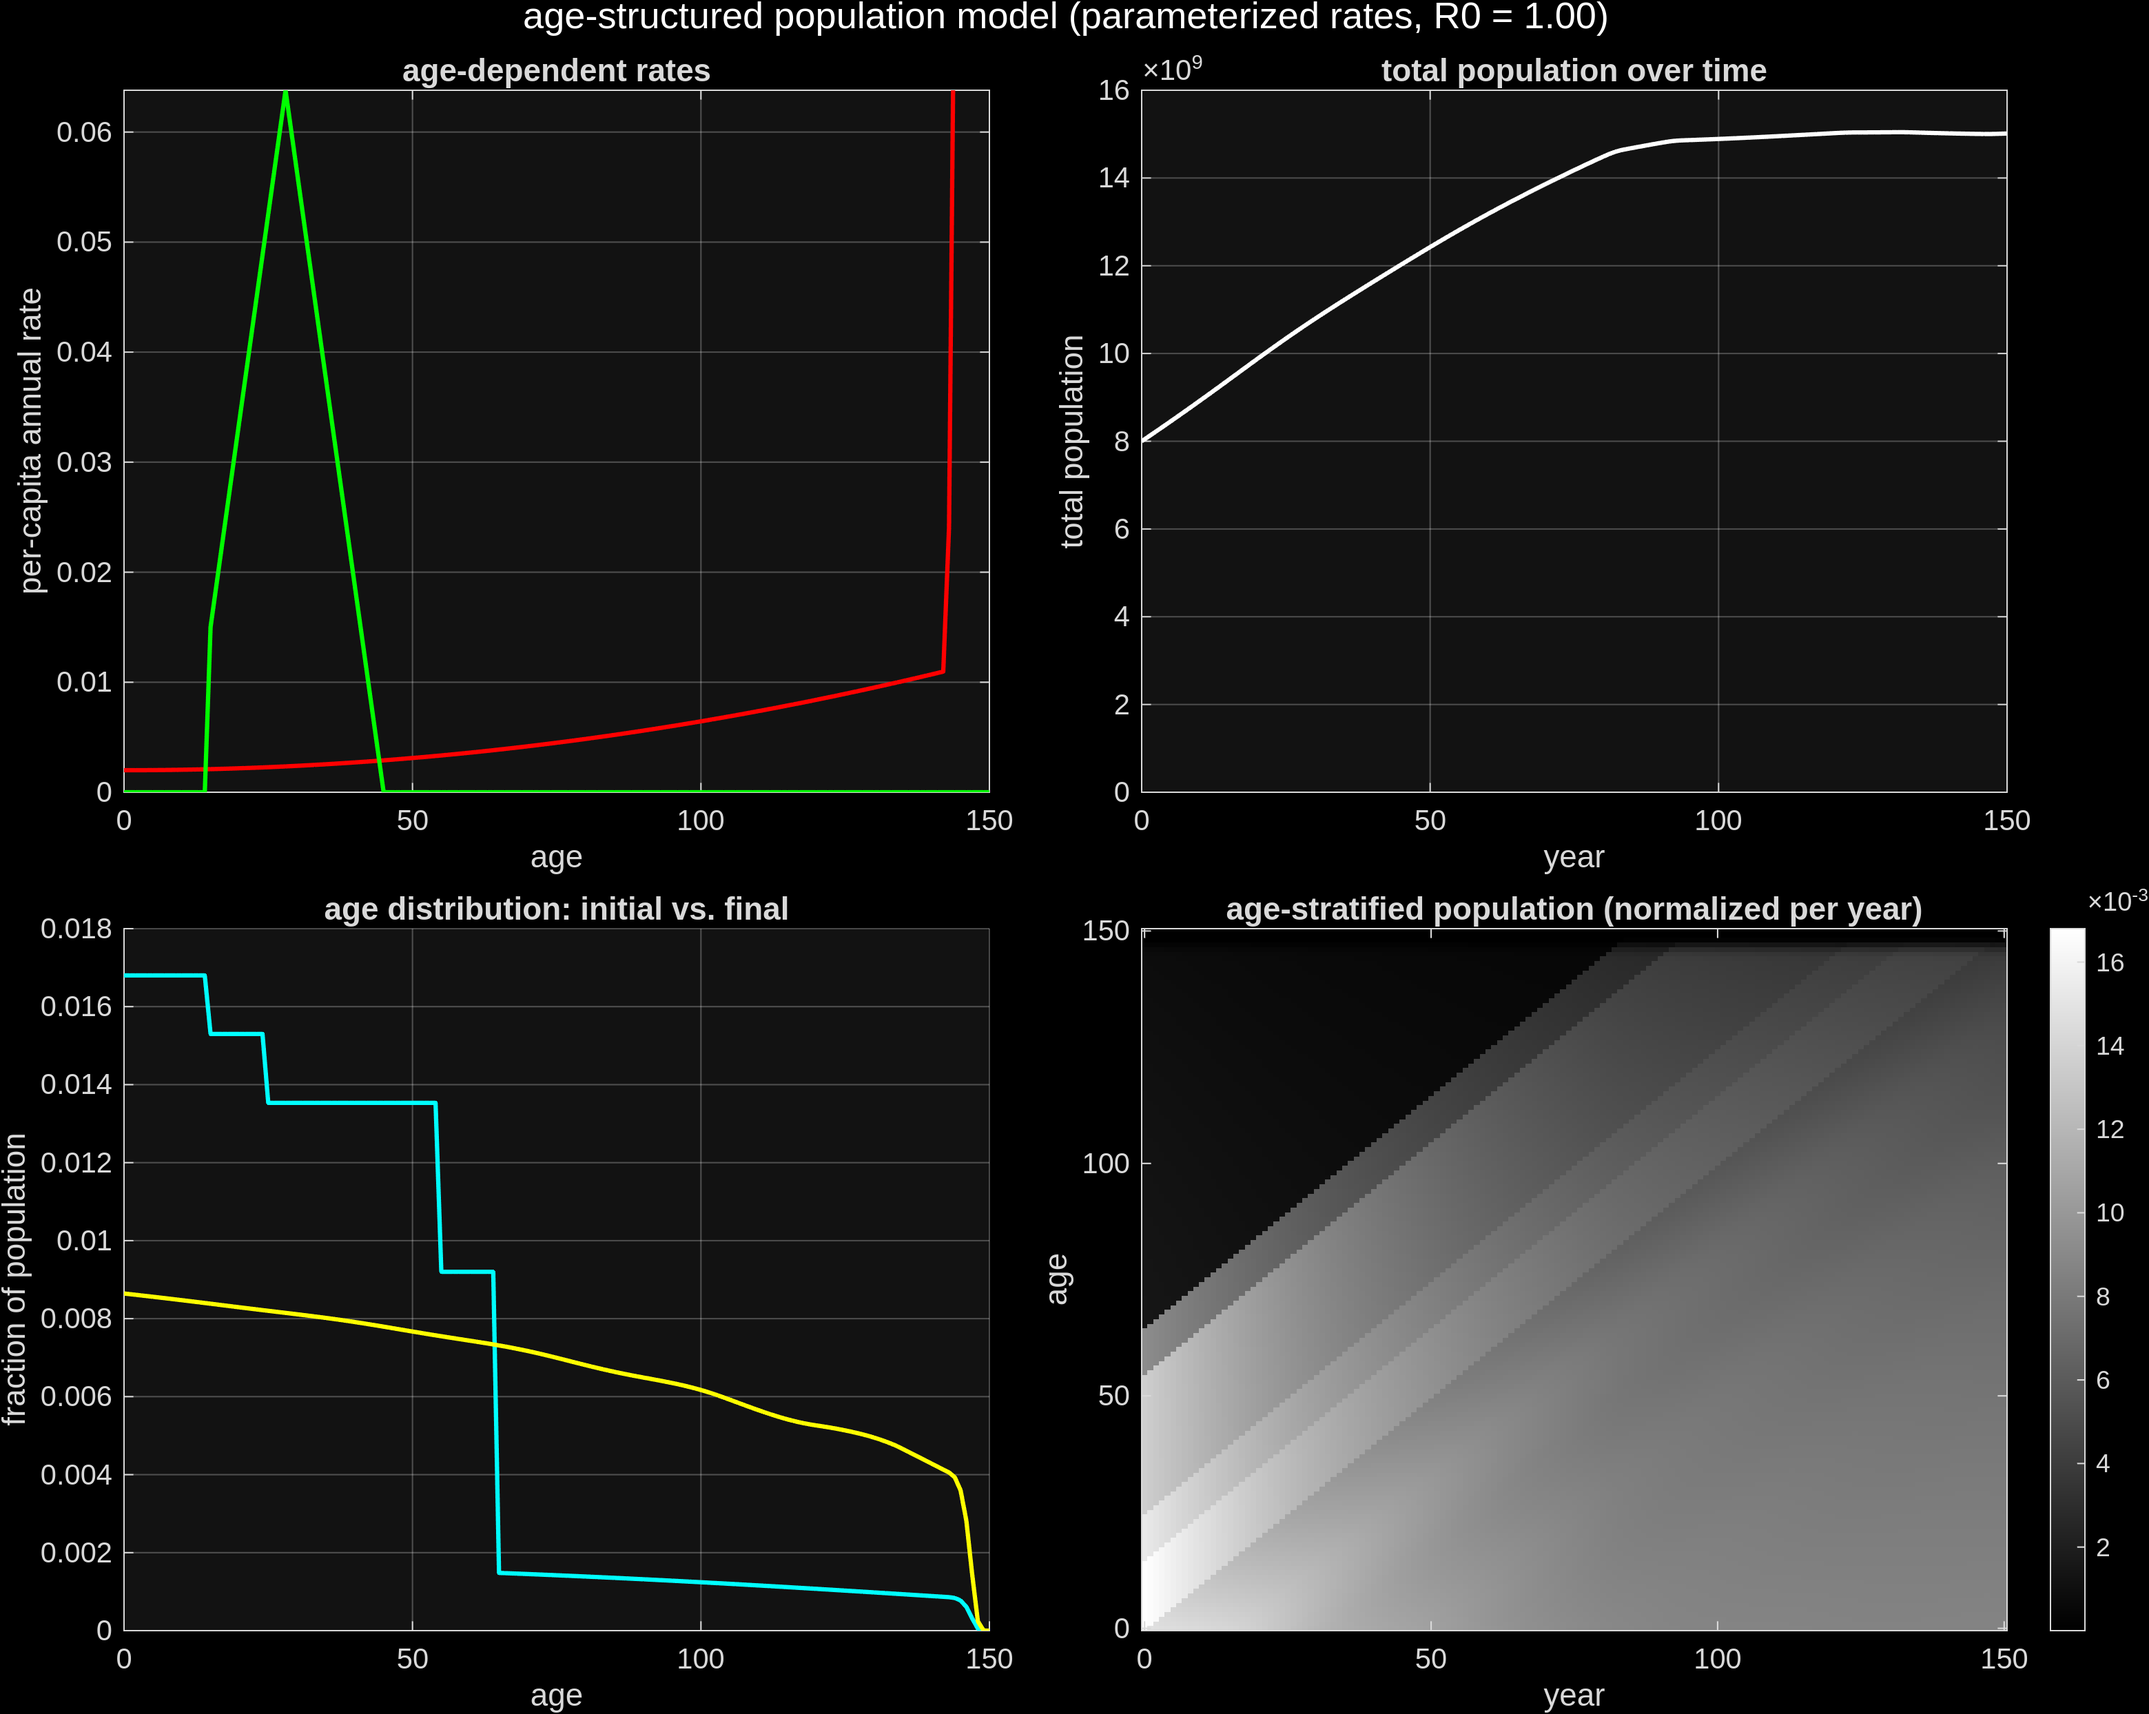
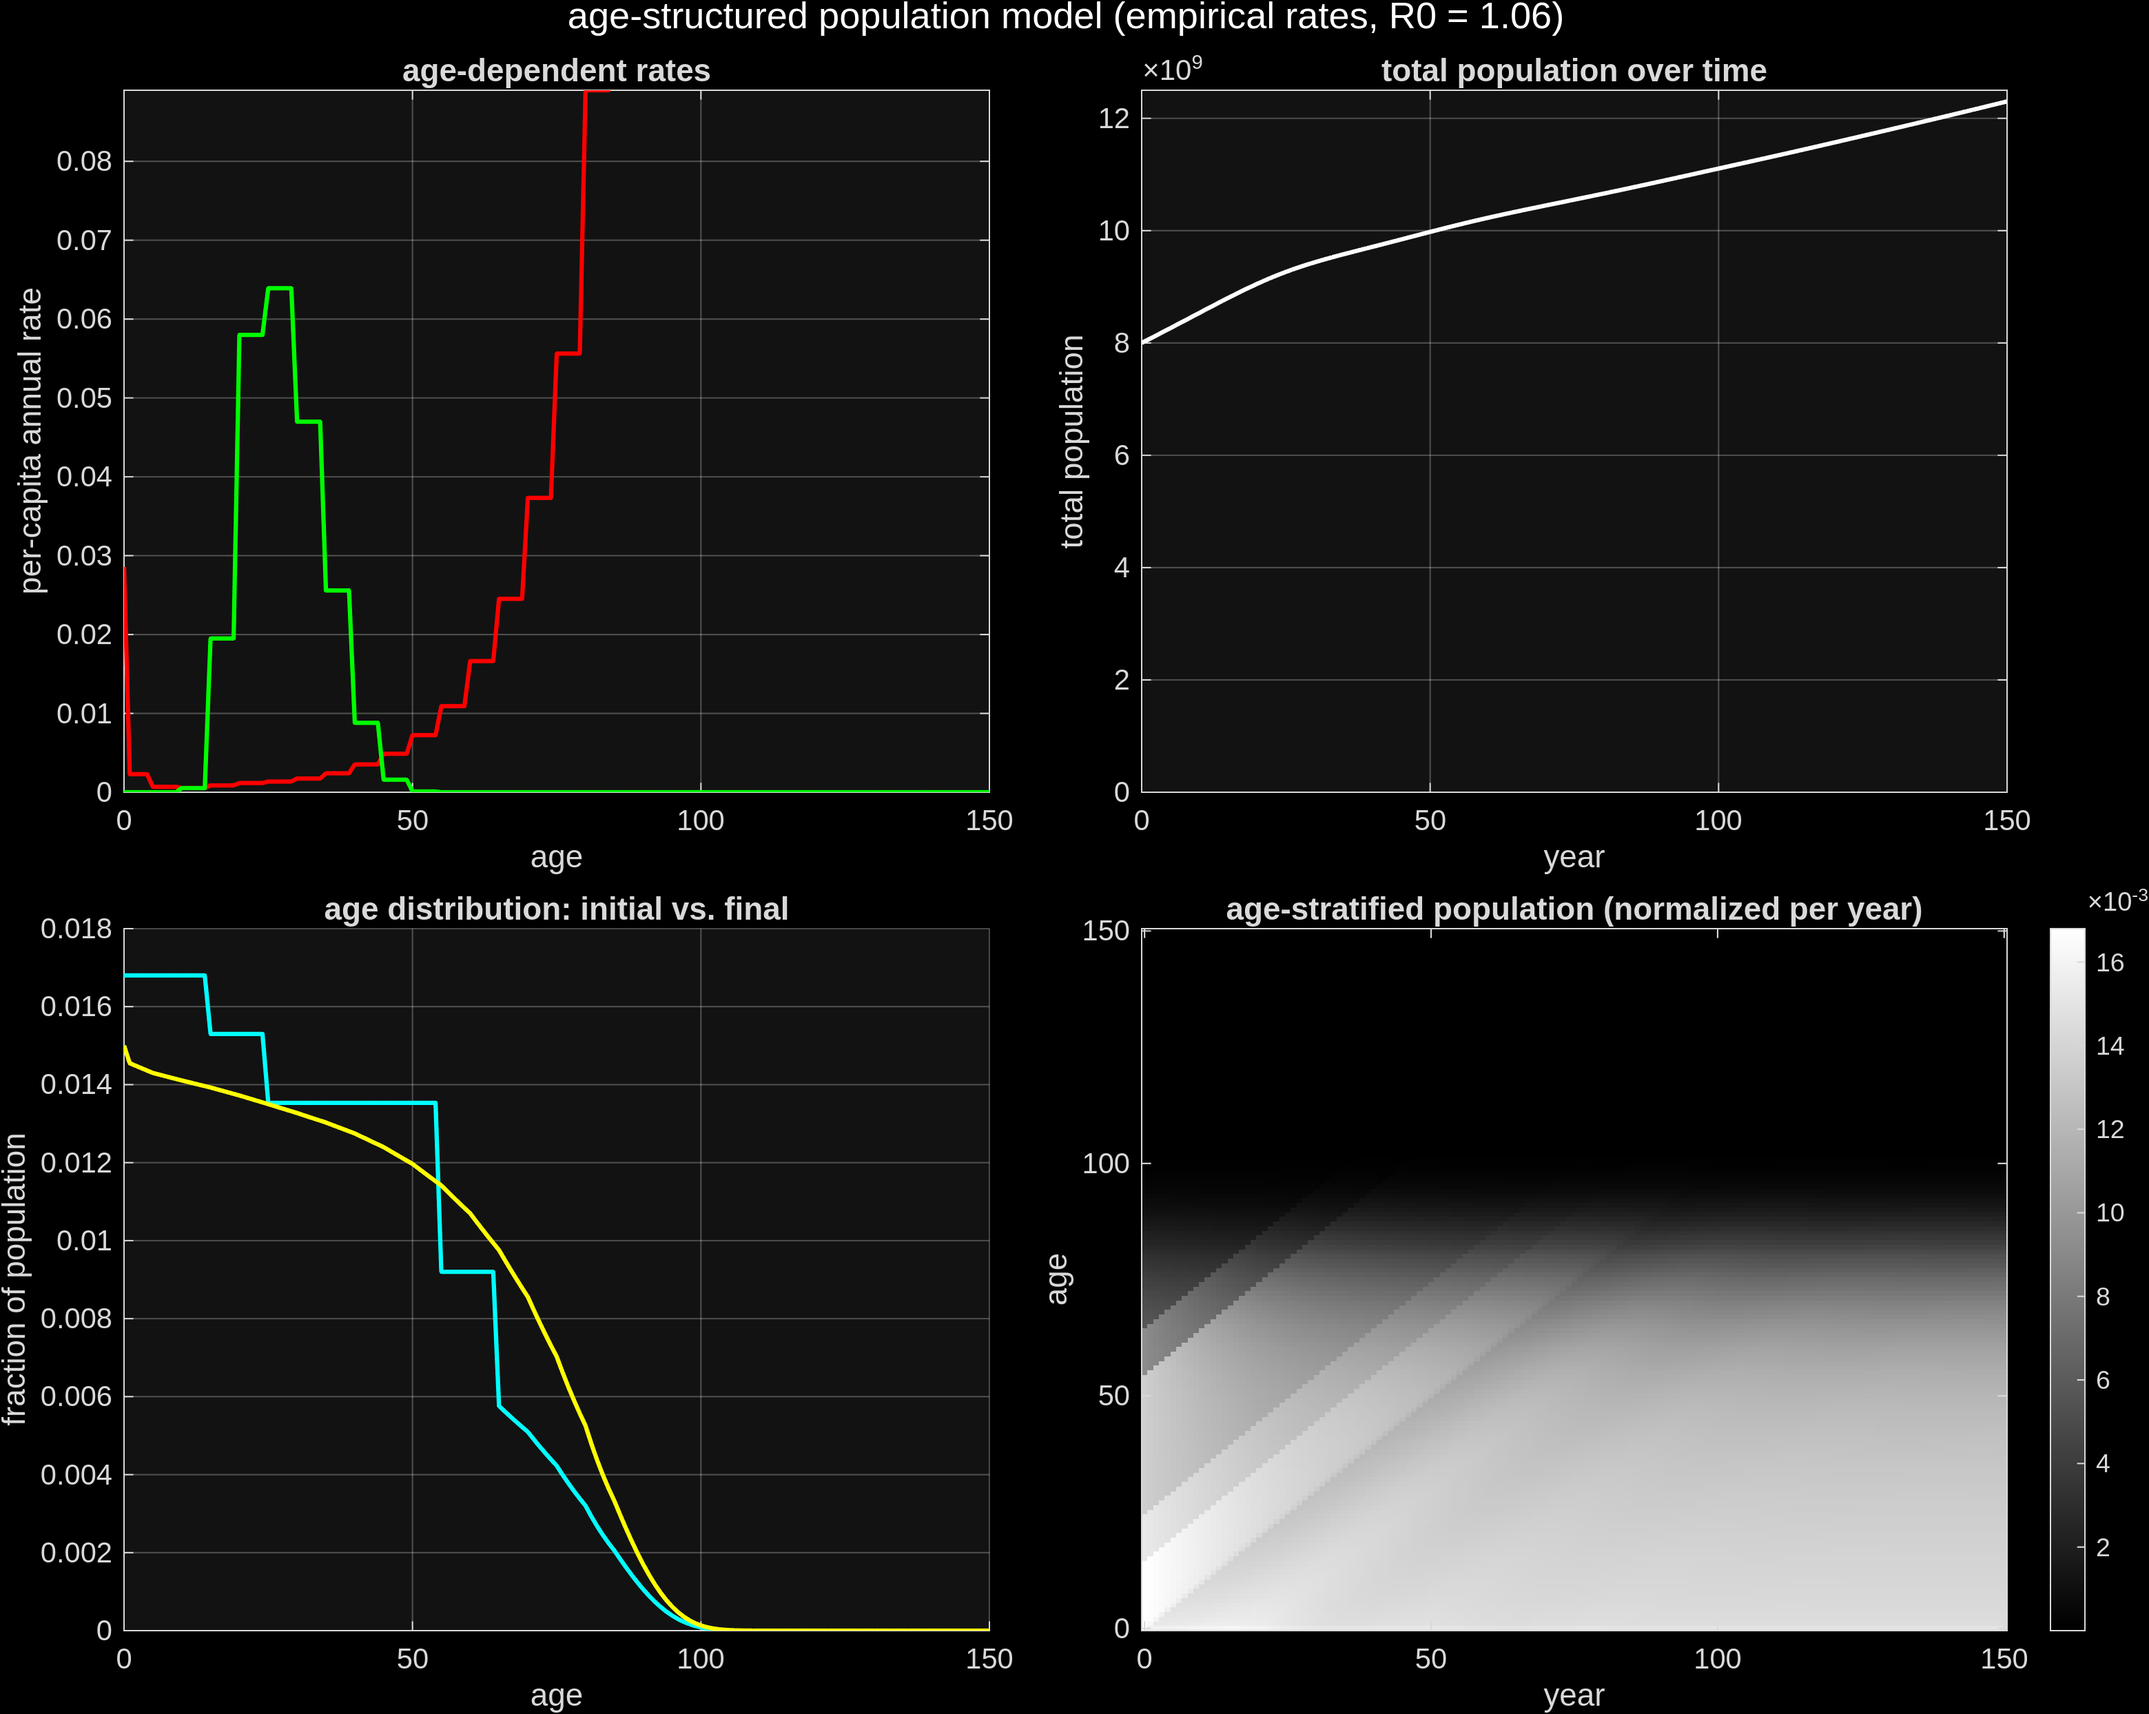
Make rateSource default to 'empirical'
The model now runs with the world's actual current age-specific
fertility and mortality by default, rather than the hand-tuned
parameterized shapes -- so by default the population's total no
longer settles to a steady value (R0 from real data is ~1.06, not
an enforced 1); the age *shape* still converges to the model's own
stable form regardless.

Updated README (intro, panel descriptions, Rate source list order)
and populationModel.md (the §1/§3 mode note, the Eq.10 validation
paragraph -- which specifically needs rateSource='parameterized' to
hold and no longer follows from "running with defaults", and §9's
intro) so no claim depends on which mode happens to be default.
Parameterized mode (targetR0=1) is unchanged and still how to get an
exact steady state.

diff --git a/doIt.m b/doIt.m
@@ -12,11 +12,11 @@ workDir = fileparts(mfilename('fullpath'));
 % Age-structured (Leslie-matrix) population model. Each yearly age class
 % ages up one bin per year, subject to age-specific mortality; births
 % enter age 0 in proportion to age-specific fertility. Edit and hit Run.
-rateSource = 'parameterized';   % 'parameterized' (hand-tuned Gompertz+cliff mortality, triangular
-                                 % fertility, rescaled to targetR0) | 'empirical' (current real-world
-                                 % age-specific rates -- World, UN World Population Prospects via Our
-                                 % World in Data; NOT rescaled to targetR0, so its own R0 emerges from
-                                 % the real data as-is). See README "Rate source" for details/sources.
+rateSource = 'empirical';   % 'empirical' (current real-world age-specific rates -- World, UN
+                             % World Population Prospects via Our World in Data; NOT rescaled to
+                             % targetR0, so its own R0 emerges from the real data as-is) |
+                             % 'parameterized' (hand-tuned Gompertz+cliff mortality, triangular
+                             % fertility, rescaled to targetR0). See README "Rate source" for details/sources.
 ageMax     = 150;      % y, oldest age class (plus-group: survivors accumulate here)
 steepAgeFrac        = 0.95;   % fraction of ageMax past which mortality accelerates sharply (senescence cliff)
 steepMortalityScale = 0.02;   % extra-hazard scale added past steepAgeFrac*ageMax

diff --git a/README.md b/README.md
@@ -2,19 +2,25 @@
 
 A minimal age-structured (Leslie-matrix / cohort-component) population model in MATLAB.
 Age-dependent birth (fertility) and death (mortality) rates drive a population of yearly age
-cohorts forward in time. By default, fertility is auto-calibrated to a target net reproduction
-rate, which is what makes the population settle into a genuine **steady state** rather than growing
-or shrinking without bound — see [`populationModel.md`](populationModel.md) for why. The rates
-themselves are swappable too: hand-tuned parameterized curves (default) or current real-world
-age-specific rates — see [Rate source](#rate-source).
+cohorts forward in time. By default (`rateSource='empirical'`) those rates are the world's actual
+current age-specific fertility and mortality, so the model shows what they currently imply: the age
+distribution's *shape* settles into the model's own stable form, but the *total* keeps growing,
+since today's real rates aren't exactly at replacement. Switch to `rateSource='parameterized'` (see
+[Rate source](#rate-source)) to instead calibrate fertility to a target net reproduction rate,
+which is what makes the population settle into a genuine **steady state** — the property this
+project is named for — rather than growing or shrinking without bound; see
+[`populationModel.md`](populationModel.md) for why.
 
 ![age-structured population model](figures/populationModel.png)
 
-- **top-left** — the age-dependent rates driving the model: mortality (red, rising with age, with
-  an optional sharp senescence cliff late in life) and fertility (green, a triangular pulse over
-  the fertile age window).
-- **top-right** — total population over time, settling from its (deliberately non-stable) initial
-  condition toward a steady long-run value.
+- **top-left** — the age-dependent rates driving the model: mortality (red) and fertility (green)
+  by age. With the default empirical rates these are the real, somewhat noisy age-band curves
+  (a U-shaped mortality curve, low through adulthood then rising sharply past ~50; a fertility
+  curve peaking in the late 20s); in parameterized mode these are smooth hand-tuned Gompertz and
+  triangular shapes instead.
+- **top-right** — total population over time. Its *shape* settles quickly; whether the *total*
+  itself levels off depends on [rate source](#rate-source) — it doesn't with the default empirical
+  rates (mild real-world growth, R0 ≈ 1.06), but does in parameterized mode with `targetR0=1`.
 - **bottom-left** — the initial (current real-world) vs. final (model's own stable) age
   distribution, directly comparing the starting and converged shapes.
 - **bottom-right** — the full age-stratified population, normalized within each year, showing the
@@ -30,15 +36,12 @@ the top; edit and re-run. The script ends by exporting the figure above to
 
 ## Rate source
 
-`rateSource` (a `CONTROL PANEL` parameter, default `'parameterized'`) picks between two
+`rateSource` (a `CONTROL PANEL` parameter, default `'empirical'`) picks between two
 independent implementations of the mortality/fertility curves, selected by a `switch` in
 `doIt.m` — everything downstream (survival, R0, the cohort simulation) uses whichever
 `mortality(age)`/`fertility(age)` that switch produces, unchanged:
 
-- **`'parameterized'`** (default) — the hand-tuned Gompertz-plus-senescence-cliff mortality and
-  triangular fertility described above and in [`populationModel.md`](populationModel.md), with
-  fertility rescaled to hit `targetR0` exactly.
-- **`'empirical'`** — the current real-world age-specific rates for the World: fertility from the
+- **`'empirical'`** (default) — the current real-world age-specific rates for the World: fertility from the
   2023 age-specific fertility rate by 5-year age band, and mortality from the 2021 life table's
   probability of dying within each age band (both from
   [Our World in Data](https://ourworldindata.org/), sourced from UN World Population Prospects).
@@ -49,6 +52,9 @@ independent implementations of the mortality/fertility curves, selected by a `sw
   mode, fertility here is used *as-is* — not rescaled to `targetR0` — so whatever net reproduction
   rate the real data implies is what the model runs with (currently R0 ≈ 1.06, i.e. mild long-run
   growth, consistent with the world's fertility currently sitting slightly above replacement).
+- **`'parameterized'`** — the hand-tuned Gompertz-plus-senescence-cliff mortality and triangular
+  fertility described in [`populationModel.md`](populationModel.md), with fertility rescaled to
+  hit `targetR0` exactly.
 
 ## Net reproduction rate (R0)
 

diff --git a/populationModel.md b/populationModel.md
@@ -27,8 +27,8 @@ genuine steady state — the property the project is named for.
 
 ## 1. Age-dependent mortality
 
-*(This section, and §3 below, describe the default `rateSource='parameterized'` mode. §9 gives the
-`'empirical'` alternative.)*
+*(This section, and §3 below, describe the `rateSource='parameterized'` mode. §9 gives the
+`'empirical'` alternative -- the project's own default.)*
 
 Baseline hazard rises with age (Gompertz-like), plus a sharp senescence cliff past a configurable
 fraction $f_s$ (`steepAgeFrac`) of the maximum age:
@@ -144,16 +144,19 @@ $$
 \lim_{t\to\infty} \frac{N(a,t)}{P(t)} = \frac{\ell(a)}{\sum_{a'} \ell(a')} \tag{10}
 $$
 
-This is a checkable prediction, not just an assertion: running `doIt.m` with defaults, the
-simulated final-year age distribution `N(:,end)/sum(N(:,end))` matches `survivorship/sum(survivorship)`
-to within $2\times10^{-4}$ after `nYears`$=150$ years, starting from the real-world (not the
-model's own stable) age distribution in the parameter table below — confirming Eq. (10) numerically.
+This is a checkable prediction, not just an assertion: running `doIt.m` with
+`rateSource='parameterized'` ($\lambda=1$ exactly, since `targetR0=1`), the simulated final-year age
+distribution `N(:,end)/sum(N(:,end))` matches `survivorship/sum(survivorship)` to within
+$2\times10^{-4}$ after `nYears`$=150$ years, starting from the real-world (not the model's own
+stable) age distribution in the parameter table below — confirming Eq. (10) numerically. (Eq. (10)
+is specifically the $\lambda=1$ case; with `rateSource='empirical'` -- the project's own current
+default, §9 -- $\lambda\neq1$, so the general $\ell(a)\lambda^{-a}$ form above it applies instead.)
 
 ---
 
 ## 9. Empirical rate alternative
 
-`rateSource='empirical'` replaces Eqs. (1) and (3) with the current real-world age-specific rates
+`rateSource='empirical'` (the project's own default) replaces Eqs. (1) and (3) with the current real-world age-specific rates
 for the World, rather than the hand-tuned shapes: fertility from the 2023 age-specific fertility
 rate by 5-year age band, mortality from the 2021 life table's probability of dying within each age
 band (both [Our World in Data](https://ourworldindata.org/), sourced from UN World Population
